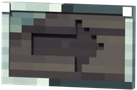
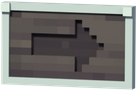
wardrobe: Temple Dark page plaques get an even steel frame and clean wood

diff --git a/dev/tools/render-wardrobe.py b/dev/tools/render-wardrobe.py
@@ -27,8 +27,8 @@ SETS = {
                    'board': lambda x, y: (2 + x, 76 + y), 'rim': lambda x, y: (66 + x, 96 + y), 'cut': lambda x, y: (117 + x % 5, 118 + y % 4),
                    'bolt': LJ_BOLT},
     'Temple_Dark': {'interior': (-39.25, 7.25, 58.5, 25.5, 11.85), 'rail': [2, 1, 90], 'doors': ('Door-R', 'Door-L'), 'door_mid': 42, 'door_z': 2,
-                    'board': lambda x, y: (63 + x, 65 + y), 'rim': lambda x, y: (1 + (x + y) % 2, 1 + (x + y) % 9),
-                    'cut': lambda x, y: (66 + x % 5, 78 + y % 2), 'bolt': {'front': [100, 86], 'top': [101, 87], 'bottom': [101, 87], 'left': [101, 87], 'right': [101, 87]}},
+                    'board': lambda x, y: (64 + x, 68 + y), 'rim': lambda x, y: (1, 4), 'rim_cells': True,
+                    'cut': lambda x, y: (66 + x % 5, 78 + y % 2), 'bolt': {'front': [1, 1], 'top': [1, 4], 'bottom': [1, 4], 'left': [1, 4], 'right': [1, 4]}},
 }
 LJ = SETS['Lumberjack']['interior']
 LJ_SCALE = IN_H_UI / (LJ[2] - LJ[3])                 # UI units per model unit in the Lumberjack art (the hanger and plaque sizes are set there)
@@ -125,7 +125,8 @@ def make(set_name, c):
             x = 0
             while x < W:
                 kd = kind(x, y); xe = x
-                while kd != 'cut' and xe + 1 < W and kind(xe + 1, y) == kd: xe += 1   # cut cells one by one (a small dark patch)
+                # cut cells one by one (a small dark patch); a rim from a single texel too (a longer box would run its face across the sheet)
+                while kd != 'cut' and not (kd == 'rim' and c.get('rim_cells')) and xe + 1 < W and kind(xe + 1, y) == kd: xe += 1
                 w = xe - x + 1
                 front = {'cut': D - CUT, 'board': D, 'rim': D + RIM}[kd]
                 tu, tv = c[kd](x, y)
